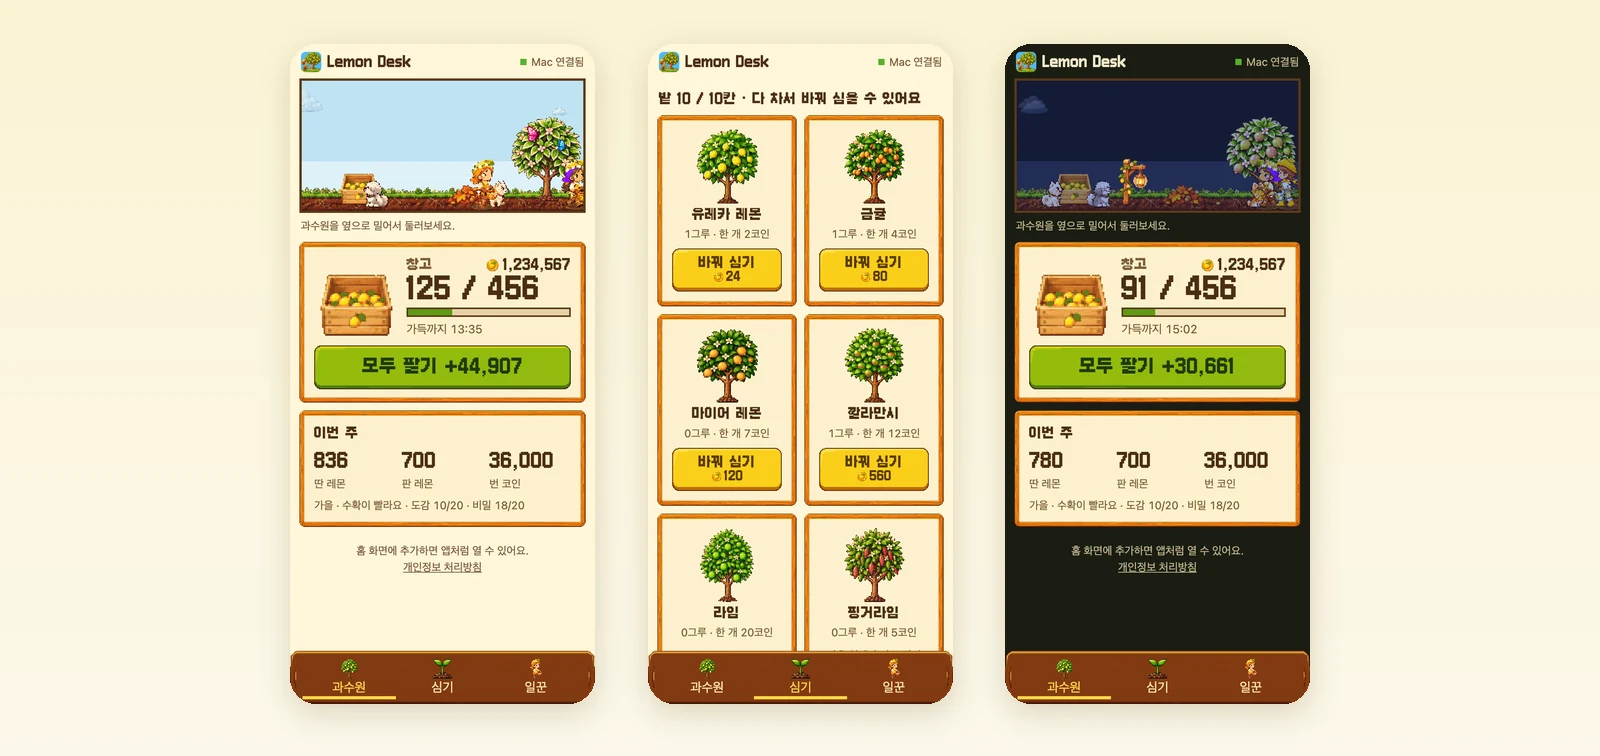
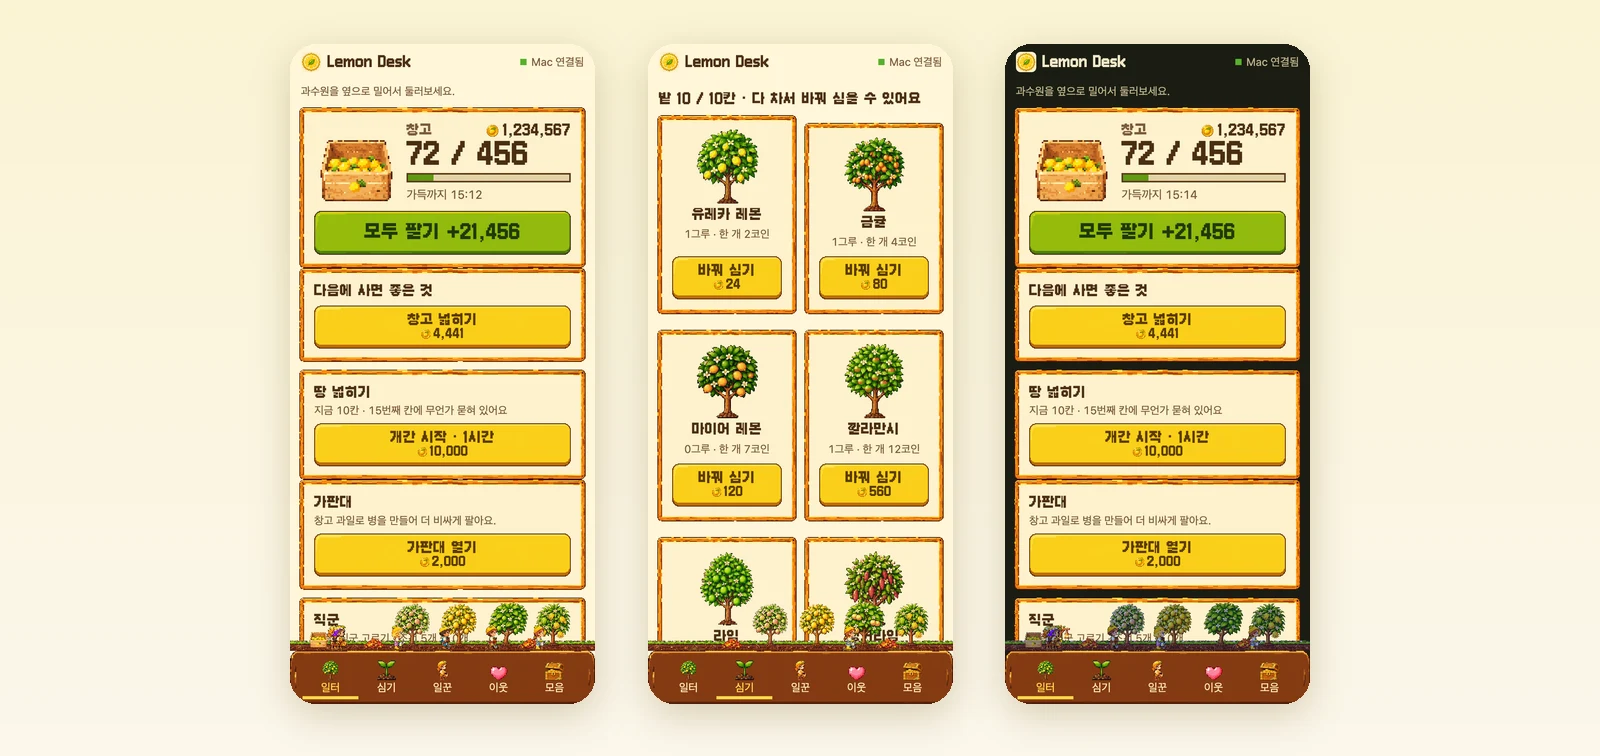
폰 페이지 띠: 하늘·테두리 없이 0.5배, 소개 폰 그림 새로

diff --git a/site/index.html b/site/index.html
@@ -225,7 +225,7 @@
       <h2>Mac이 꺼져 있어도<br>폰으로 팔고 심기</h2>
       <p>설정에서 '폰으로 보기'를 켜고 QR을 한 번 찍으면, 폰 브라우저에 내 과수원이 띠와 같은 모습으로 보이고(일하는 일꾼, 강아지, 구름·나비까지), 창고와 가득 찰 때까지 남은 시간을 Mac과 똑같이 보면서 팔고, 심고, 일꾼을 고용하고, 이웃을 돕고, 서리를 보내고, 소품 자리와 옷 색까지 바꿀 수 있어요. Mac이 잠들거나 꺼져 있어도 폰에서 한 일은 예약해 두었다가 Mac이 깨어날 때 그 시각에 한 것처럼 반영하고, 이웃 물 주기와 선물은 바로 보내요. 앱 설치나 로그인은 필요 없고 집 밖에서도 돼요. Mac·Windows PC에서는 설정의 'AI 연결'을 켜고 Claude·Codex 옆 [연결]을 누르면, AI에게 "다 팔아줘", "이웃 도와줘"처럼 말로 과수원을 맡길 수도 있어요. 회사 Mac·집 Mac·Windows PC 를 같이 쓴다면 '기기 연동'을 켜고 코드 하나로 묶어 한 과수원을 이어 키울 수 있어요(한 번에 한 기기에서만 자라고, 기기를 바꿀 때도 그대로 옮겨져요).</p>
     </div>
-    <figure><img src="shot-06.webp?v=3" width="1600" height="756" loading="lazy" decoding="async" alt="폰 화면 세 장: 일꾼과 강아지, 나비가 있는 과수원과 창고·모두 팔기 버튼, 나무 심기 타일, 랜턴이 켜진 밤 과수원."></figure>
+    <figure><img src="shot-06.webp?v=4" width="1600" height="756" loading="lazy" decoding="async" alt="폰 화면 세 장: 창고·모두 팔기와 다음에 살 것, 나무 바꿔 심기 타일, 밤 화면. 세 장 모두 아래 탭 바로 위에 과수원 띠가 늘 떠 있어요."></figure>
   </section>
   <section class="wrap robot" id="robot">
     <div class="card">

diff --git a/site/en/index.html b/site/en/index.html
@@ -226,7 +226,7 @@
       <h2>Sell and plant from your phone,<br>even when your computer is off</h2>
       <p>Turn on Phone view in Settings and scan the QR code once. Your orchard shows up in your phone’s browser looking just like the strip (busy workers, dogs, clouds and butterflies included), with the same crate and time-until-full as on your computer, and you can sell, plant, hire workers, help neighbors, send scrumping raids, and even rearrange decorations and outfit colors. If your computer is asleep or off, what you do on the phone is queued and applied as if it happened at that moment when it wakes up; watering and gifts for neighbors go out right away. No app to install, no sign-in, and it works away from home. On Mac or Windows you can also turn on AI Connection in Settings, click [Connect] next to Claude or Codex, and hand the orchard over in plain words: “sell everything,” “help my neighbors.” Using a work Mac, a home Mac, and a Windows PC? Turn on Device Sync and link them with one code to keep growing the same orchard (it grows on one device at a time and moves with you when you switch).</p>
     </div>
-    <figure><img src="../shot-06.webp?v=3" width="1600" height="756" loading="lazy" decoding="async" alt="Three phone screens: the orchard with workers, dogs, and butterflies plus the crate and Sell All button; tree planting tiles; the orchard at night with lanterns lit."></figure>
+    <figure><img src="../shot-06.webp?v=4" width="1600" height="756" loading="lazy" decoding="async" alt="Three phone screens: the crate with Sell All and what to buy next; tree replanting tiles; the night view. On every screen the orchard strip stays just above the bottom tabs."></figure>
   </section>
   <section class="wrap robot" id="robot">
     <div class="card">

diff --git a/site/m/index.html b/site/m/index.html
@@ -36,11 +36,12 @@
   .wrap { max-width: 480px; margin: 0 auto; padding: 0 12px calc(96px + env(safe-area-inset-bottom)); }
   .wide .wrap { max-width: none; } /* 확인·캡처용 ?wide: 과수원 전체를 한 화면에 */
   /* 과수원 장면은 탭과 상관없이 탭 막대 바로 위에 늘 붙어 있다(Mac 띠처럼). 옆으로 밀기는 그대로 */
-  .dock { position: fixed; left: 0; right: 0; bottom: calc(68px + env(safe-area-inset-bottom)); z-index: 4; padding: 0 12px; background: var(--bg); }
-  .dock .scene { max-width: 456px; margin: 0 auto; }
-  .wrap:has(#app:not([hidden])) { padding-bottom: calc(272px + env(safe-area-inset-bottom)); }
-  body:has(#app:not([hidden])) .toast { bottom: calc(254px + env(safe-area-inset-bottom)); }
-  .wide .dock { position: static; padding: 0; }
+  .dock { position: fixed; left: 0; right: 0; bottom: calc(68px + env(safe-area-inset-bottom)); z-index: 4; }
+  #dock .scene { border: 0; background: none; zoom: .5; } /* 데스크톱 띠처럼 하늘·테두리 없이, 화면 폭 끝까지(뒤 내용이 비친다). 0.5배(높이 86px, 같은 폭에 두 배 넓게) */
+  .wrap:has(#app:not([hidden])) { padding-bottom: calc(186px + env(safe-area-inset-bottom)); }
+  body:has(#app:not([hidden])) .toast { bottom: calc(168px + env(safe-area-inset-bottom)); }
+  .wide .dock { position: static; }
+  .wide #dock .scene { zoom: 1; }
   body:has(input:focus, textarea:focus) .dock { display: none; } /* 키보드가 올라오면 입력할 자리를 남긴다 */
 
   header.top { display: flex; align-items: center; justify-content: space-between; gap: 8px; padding: 10px 2px 8px; color: var(--page-ink); }
